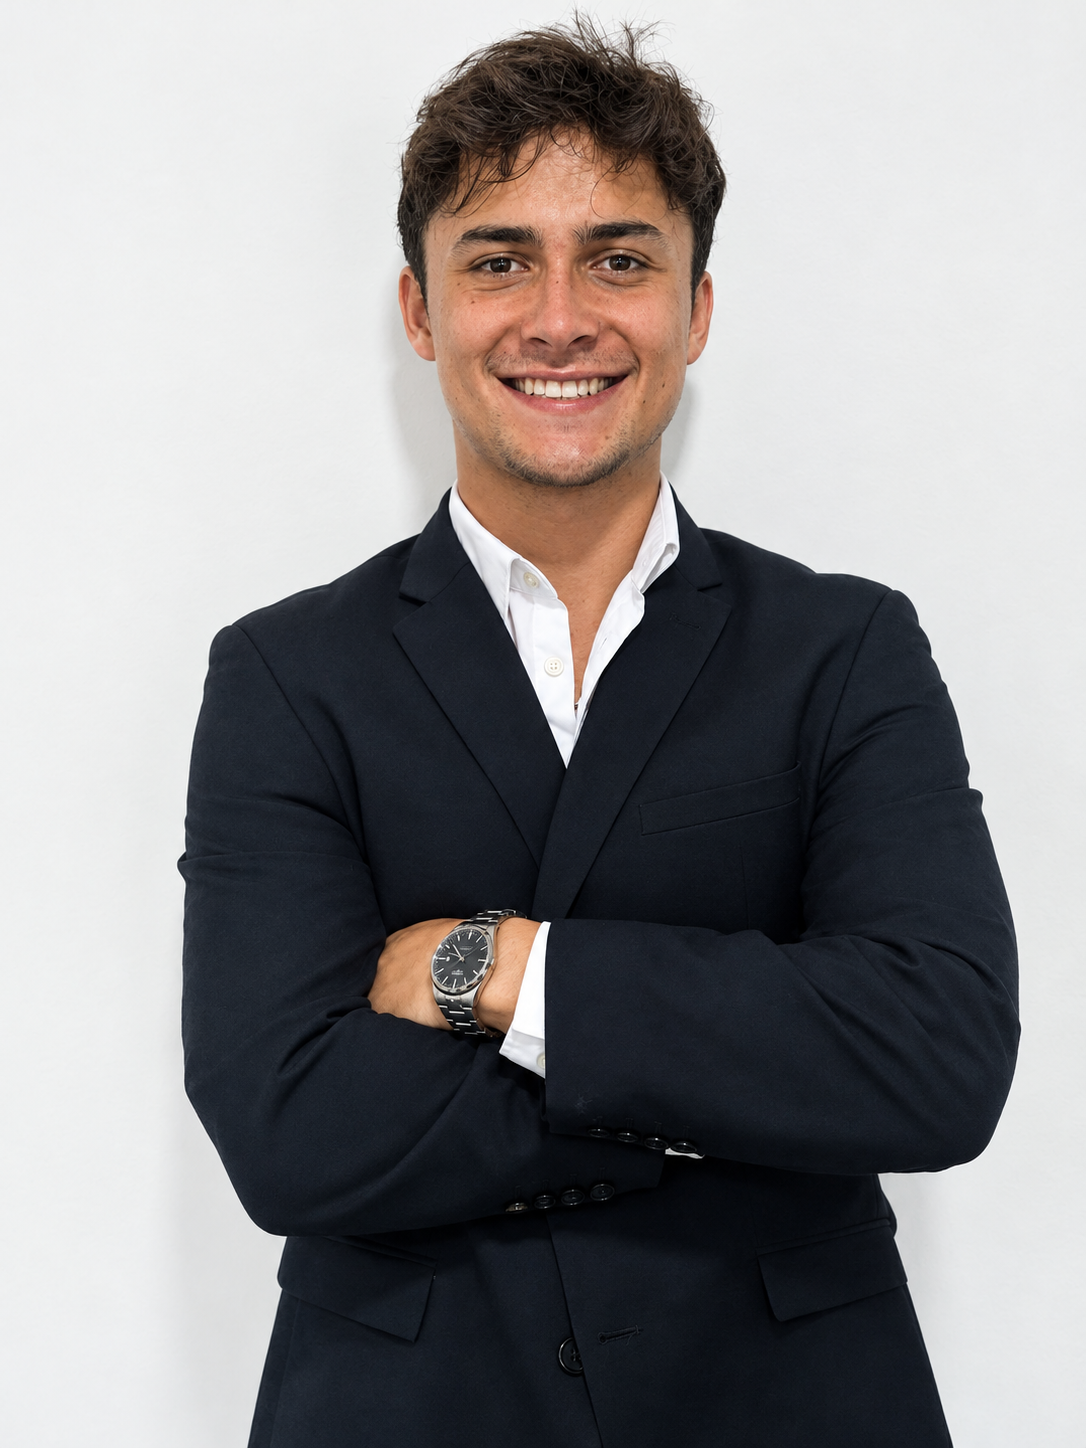
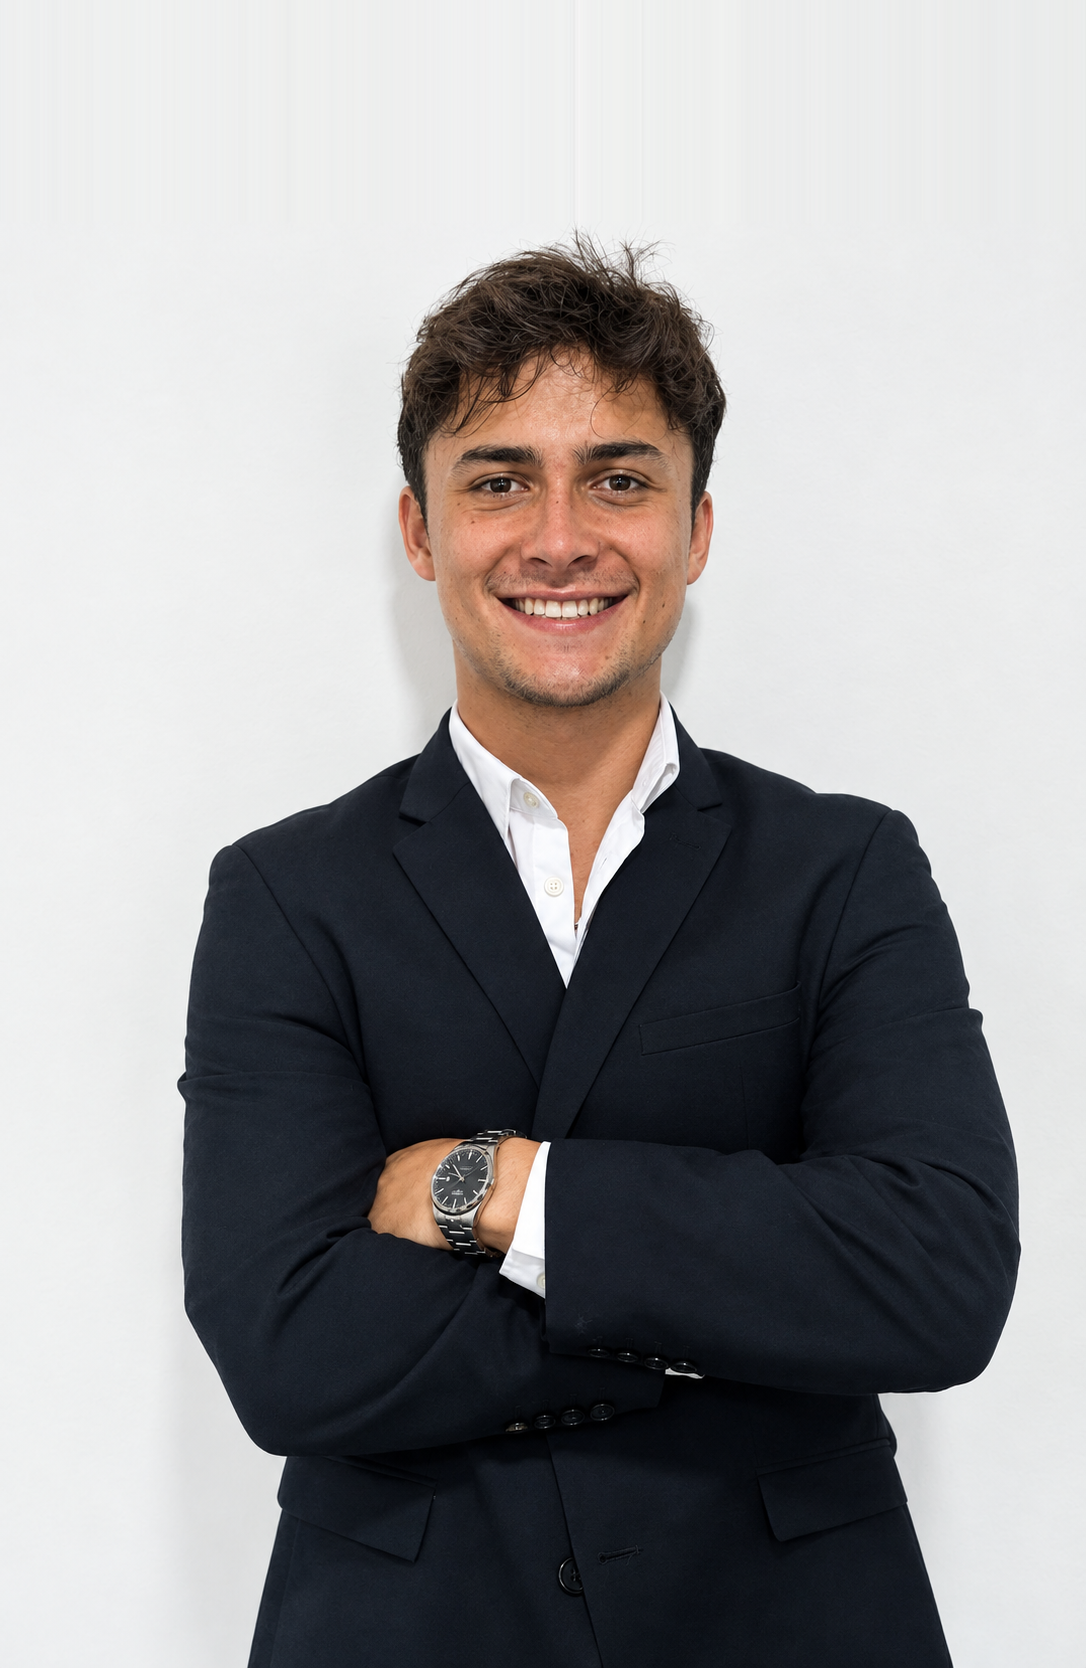
Reframe member photos: Mateo headroom, Miguel centred, zoom for 4
Mateo's source had his hair at the very top edge, so the photo gets
220px of extended wall above it. New memberPhotoZoom (scale + origin)
for Sara, Diogo, João and Duarte (lifted, since he sat low).

diff --git a/src/components/person-card.tsx b/src/components/person-card.tsx
@@ -4,7 +4,7 @@ import { useState } from "react";
 import Image from "next/image";
 import { Mail } from "lucide-react";
 
-import { memberDegrees, memberLinkedIn, memberPhotoPosition, memberPhotos, siteConfig, type Person } from "@/lib/site-data";
+import { memberDegrees, memberLinkedIn, memberPhotoPosition, memberPhotoZoom, memberPhotos, siteConfig, type Person } from "@/lib/site-data";
 import { useT } from "@/lib/language";
 import { cn } from "@/lib/utils";
 import { LinkedinIcon } from "@/components/social-icons";
@@ -60,6 +60,7 @@ export function PersonCard({
   const degree = memberDegrees[person.name];
   const photo = memberPhotos[person.name];
   const photoPosition = memberPhotoPosition[person.name];
+  const photoZoom = memberPhotoZoom[person.name];
   const linkedin = memberLinkedIn[person.name];
   // The plain "Coordinator" role (a department's own team page) is gendered
   // per that specific coordinator's name, since the string alone doesn't
@@ -84,7 +85,13 @@ export function PersonCard({
           fill
           quality={100}
           className="object-cover transition-transform duration-700 ease-[cubic-bezier(0.16,1,0.3,1)] sm:group-hover:scale-[1.04] motion-reduce:transition-none"
-          style={photoPosition ? { objectPosition: photoPosition } : undefined}
+          // Zoom goes on `transform`; the hover zoom uses Tailwind v4's
+          // separate `scale` property, so the two compound instead of clashing.
+          style={{
+            objectPosition: photoPosition,
+            transform: photoZoom ? `scale(${photoZoom.scale})` : undefined,
+            transformOrigin: photoZoom?.origin,
+          }}
           // Next's `sizes` only ever describes the CSS box — it has no way
           // to know object-cover then crops ~47% of that fetched image's
           // width away (3:2 source into this 4:5 box keeps only

diff --git a/src/lib/site-data.ts b/src/lib/site-data.ts
@@ -149,6 +149,18 @@ export const memberPhotoPosition: Record<string, string> = {
   "Matilde Duarte": "45% center",
   "Samuel Pires Gonçalves": "52% center",
   "Tiago Albuquerque": "53% center",
+  "Miguel Maria": "61% center",
+  "Mateo Kirk": "center 30%",
+};
+
+// Optional per-member zoom for photos where the person sits too small or
+// too low in the frame: scale factor plus the transform-origin it zooms
+// around (the point that stays put — put it below the face to lift them).
+export const memberPhotoZoom: Record<string, { scale: number; origin: string }> = {
+  "Sara Abrantes": { scale: 1.25, origin: "52% 60%" },
+  "Diogo Ruivo": { scale: 1.25, origin: "50% 40%" },
+  "João Henriques": { scale: 1.25, origin: "50% 40%" },
+  "Duarte Esteves": { scale: 1.3, origin: "50% 100%" },
 };
 
 // Academic programme per member, from Data/NFC_Membros_2026-2027.csv.
